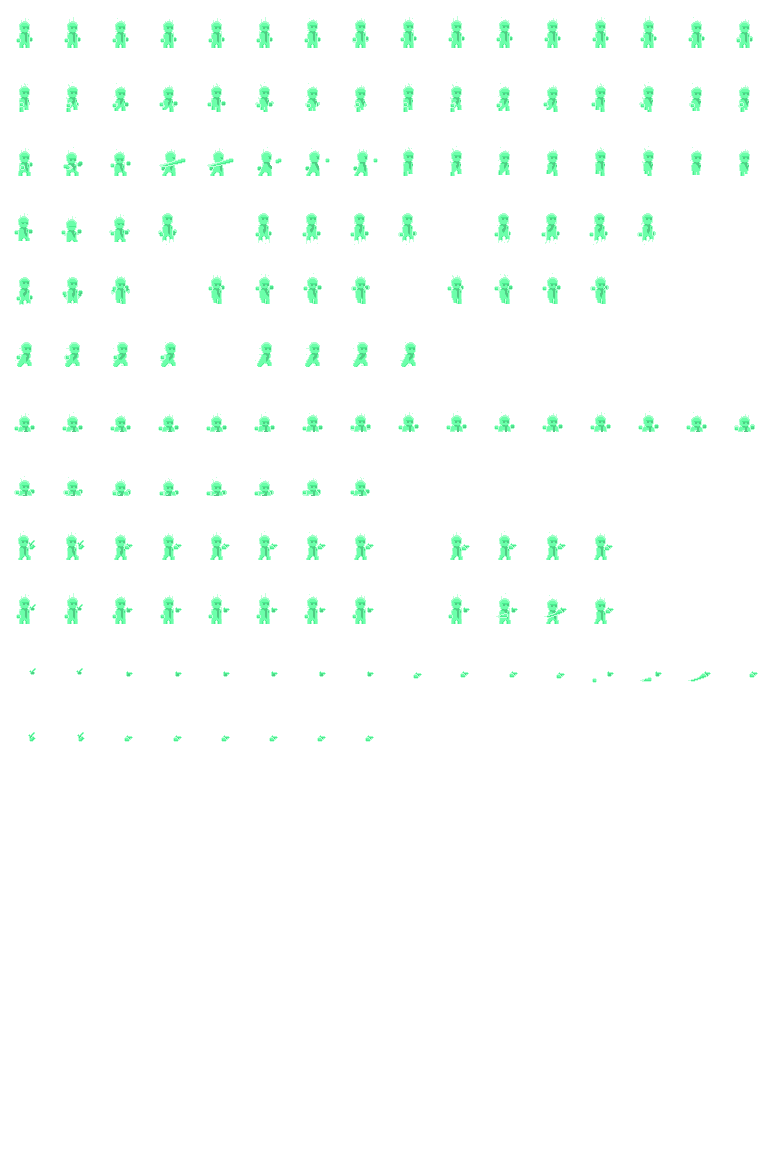
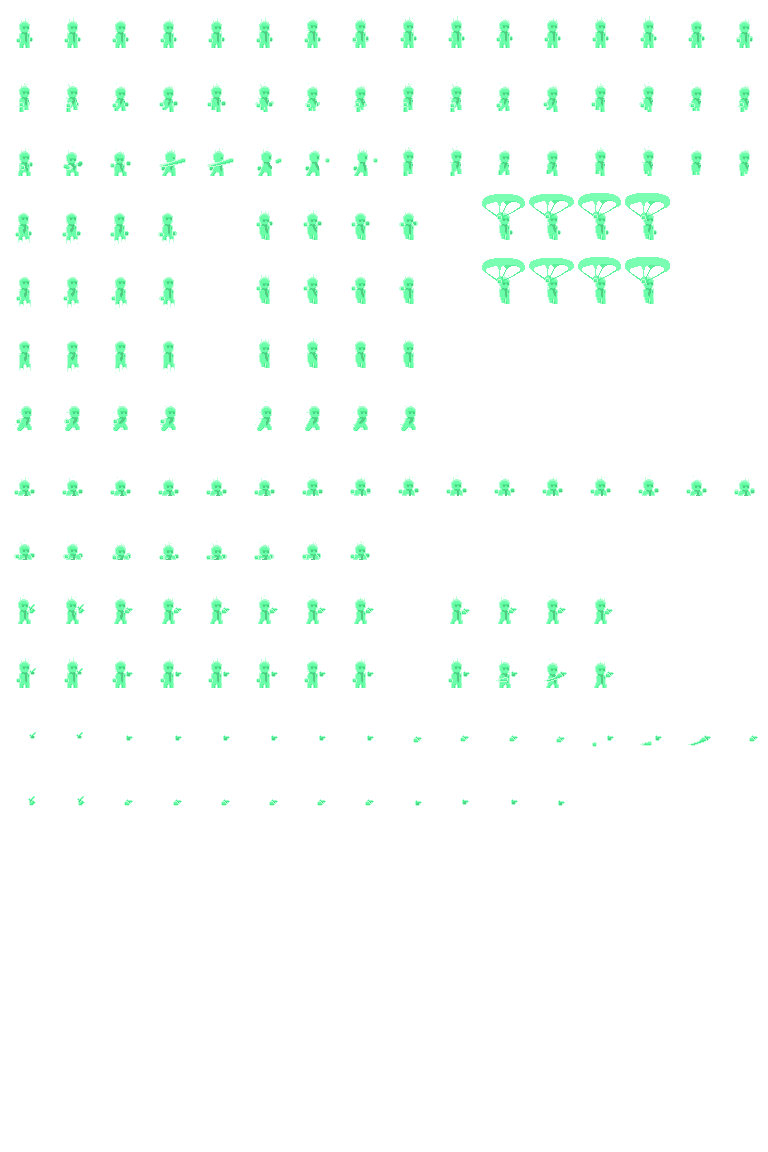
Update Animation
- Added Glide Animation

diff --git a/GameObjects/Character/Player.cs b/GameObjects/Character/Player.cs
@@ -69,7 +69,7 @@ namespace FinalComGame
         public Player(Texture2D texture, Texture2D paticleTexture) : base(texture)
         {
 
-            Animation = new Animation(texture, 48, 64, new Vector2(48*16 , 64*12), 24);
+            Animation = new Animation(texture, 48, 64, new Vector2(48*16 , 64*16), 24);
 
             Animation.AddAnimation("idle", new Vector2(0,0), 16);
             Animation.AddAnimation("run", new Vector2(0,1), 8);
@@ -78,41 +78,45 @@ namespace FinalComGame
 
             Animation.AddAnimation("melee", new Vector2(0,2), 8);
 
-            Animation.AddAnimation("charge_1", new Vector2(4,9), 4);
-            Animation.AddAnimation("charge_1_to_2", new Vector2(9,9), 4);
-            Animation.AddAnimation("charge_2", new Vector2(4,8), 4);
-            Animation.AddAnimation("charge_3", new Vector2(9,8), 4);
+            Animation.AddAnimation("charge_1", new Vector2(4,10), 4);
+            Animation.AddAnimation("charge_1_to_2", new Vector2(9,10), 4);
+            Animation.AddAnimation("charge_2", new Vector2(4,9), 4);
+            Animation.AddAnimation("charge_3", new Vector2(9,9), 4);
 
-            Animation.AddAnimation("fire_1", new Vector2(0,9), 8);
-            Animation.AddAnimation("fire_2", new Vector2(0,8), 8);
+            Animation.AddAnimation("fire_1", new Vector2(0,10), 8);
+            Animation.AddAnimation("fire_2", new Vector2(0,9), 8);
 
-            Animation.AddAnimation("jump_start", new Vector2(0,3), 4);
-            Animation.AddAnimation("jump_up", new Vector2(5,3), 4);
-            Animation.AddAnimation("jump_forward", new Vector2(10,3), 4);
+            Animation.AddAnimation("jump", new Vector2(0,3), 4);
+            Animation.AddAnimation("jump_charge_1", new Vector2(0,4), 4);
+            Animation.AddAnimation("jump_charge_2", new Vector2(0,5), 4);
 
-            Animation.AddAnimation("fall_start", new Vector2(0,4), 3);
-            Animation.AddAnimation("fall_down", new Vector2(4,4), 4);
-            Animation.AddAnimation("fall_forward", new Vector2(9,4), 4);
+            Animation.AddAnimation("fall", new Vector2(5,3), 4);
+            Animation.AddAnimation("fall_charge_1", new Vector2(5,4), 4);
+            Animation.AddAnimation("fall_charge_2", new Vector2(5,5), 4);    
 
-            Animation.AddAnimation("dash", new Vector2(0,5), 4);
-            Animation.AddAnimation("dash_charge", new Vector2(5,5), 4);
+            Animation.AddAnimation("glide", new Vector2(10,3), 4);
+            Animation.AddAnimation("glide_charge", new Vector2(10,4), 4);
 
-            Animation.AddAnimation("crouch", new Vector2(0,6), 16);
-            Animation.AddAnimation("crawl", new Vector2(0,7), 8);
+            Animation.AddAnimation("dash", new Vector2(0,6), 4);
+            Animation.AddAnimation("dash_charge", new Vector2(5,6), 4);
+
+            Animation.AddAnimation("crouch", new Vector2(0,7), 16);
+            Animation.AddAnimation("crawl", new Vector2(0,8), 8);
 
             Animation.ChangeAnimation(_currentAnimation);
 
-            HandAnimation = new Animation(texture, 48, 64, new Vector2(48*16 , 64*12), 24);
+            HandAnimation = new Animation(texture, 48, 64, new Vector2(48*16 , 64*16), 24);
 
             HandAnimation.AddAnimation("idle", new Vector2(4,3), 1);
 
-            HandAnimation.AddAnimation("charge_1", new Vector2(3,10), 1);
-            HandAnimation.AddAnimation("charge_1_to_2", new Vector2(12,10), 4);
-            HandAnimation.AddAnimation("charge_2", new Vector2(3,11), 1);
-            HandAnimation.AddAnimation("charge_3", new Vector2(8,10), 4);
+            HandAnimation.AddAnimation("charge_1", new Vector2(3,11), 1);
+            HandAnimation.AddAnimation("charge_1_to_2", new Vector2(12,11), 4);
+            HandAnimation.AddAnimation("charge_2", new Vector2(3,12), 1);
+            HandAnimation.AddAnimation("charge_3", new Vector2(8,11), 4);
+            HandAnimation.AddAnimation("charge_4", new Vector2(8,12), 4);
 
-            HandAnimation.AddAnimation("fire_1", new Vector2(0,10), 8);
-            HandAnimation.AddAnimation("fire_2", new Vector2(0,11), 8);
+            HandAnimation.AddAnimation("fire_1", new Vector2(0,11), 8);
+            HandAnimation.AddAnimation("fire_2", new Vector2(0,12), 8);
 
             HandAnimation.ChangeAnimation(_currentHandAnimation);
 
@@ -232,12 +236,29 @@ namespace FinalComGame
                     animation = "dash";
                 else
                     animation = "dash_charge";
-            else if (_isGliding)
-                animation = "fall_down";
+            else if (_isGliding){
+                if (HandAnimation._currentAnimation == "idle")
+                    animation = "glide";
+                else
+                    animation = "glide_charge";
+                }
             else if (Velocity.Y > 0)
-                animation = "fall_start";
-            else if (_isJumping && Velocity.Y < 0)
-                animation = "jump_start";
+                if (HandAnimation._currentAnimation == "idle")
+                        animation = "fall";
+                else if (HandAnimation._currentAnimation == "charge_1" || 
+                        HandAnimation._currentAnimation == "fire_1")
+                    animation = "fall_charge_1";
+                else
+                    animation = "fall_charge_2";
+            else if (_isJumping && Velocity.Y < 0){
+                if (HandAnimation._currentAnimation == "idle")
+                        animation = "jump";
+                else if (HandAnimation._currentAnimation == "charge_1" || 
+                        HandAnimation._currentAnimation == "fire_1")
+                    animation = "jump_charge_1";
+                else
+                    animation = "jump_charge_2";
+            }
             else if (Velocity.X != 0)
             {
                 if(_isCrouching)
@@ -248,10 +269,8 @@ namespace FinalComGame
                     else if (HandAnimation._currentAnimation == "charge_1" || 
                             HandAnimation._currentAnimation == "fire_1")
                         animation = "run_charge_1";
-                    else{
+                    else
                         animation = "run_charge_2";
-                    }
-                    Console.WriteLine(HandAnimation._currentAnimation + " " + Animation._currentAnimation);
                 }
 
             }
@@ -269,7 +288,6 @@ namespace FinalComGame
 
                         _lastChargeTime = 0;
                     }
-                    
                     else if (_isCharging){
                         if (_chargeTime == MaxChargeTime)
                         animation = "charge_3";
@@ -278,10 +296,8 @@ namespace FinalComGame
                         else
                         animation = "charge_1";
                     }
-
-                    else{
+                    else
                         animation = "idle";
-                    }
                 }
             }
 
@@ -289,12 +305,6 @@ namespace FinalComGame
                 _currentAnimation = animation;
                 switch (animation)
                 {
-                    case "jump_start" :
-                        Animation.ChangeTransitionAnimation(_currentAnimation, "jump_up");
-                        break;
-                    case "fall_start" :
-                        Animation.ChangeTransitionAnimation(_currentAnimation, "fall_down");
-                        break;
                     case "charge_1_to_2" :
                         Animation.ChangeTransitionAnimation(_currentAnimation, "charge_2");
                         break;
@@ -315,13 +325,31 @@ namespace FinalComGame
             }
 
             base.UpdateAnimation(deltaTime);
+            Console.WriteLine(HandAnimation._currentAnimation + " " + Animation._currentAnimation);
         }
 
         protected void UpdateHandAnimation(float deltaTime)
         {
             string handAnimation = "idle";
 
-            if (Velocity.X != 0)
+            if (_isGliding){
+                if (_lastChargeTime != 0)
+                {
+                        handAnimation = "fire_1";
+                    _lastChargeTime = 0;
+                }
+
+                else if (_isCharging){
+                    if (_chargeTime == MaxChargeTime){
+                        handAnimation = "charge_4";
+                    }
+                    else{
+                        handAnimation = "charge_1";
+                    }
+                }
+            }
+
+            else if (Velocity.X != 0 || Velocity.Y != 0)
             {
                 if(_isCrouching){}
                     //animation = "crawl";
@@ -438,7 +466,6 @@ namespace FinalComGame
             if (Singleton.Instance.IsKeyPressed(Jump) && !IsOnGround() && !_isJumping && !_isClimbing && !_isDashing && MP > 0)
             {
                 _isGliding = true;
-                Animation.Reset(); // Reset glide animation when starting to glide
             }
             else
             {
